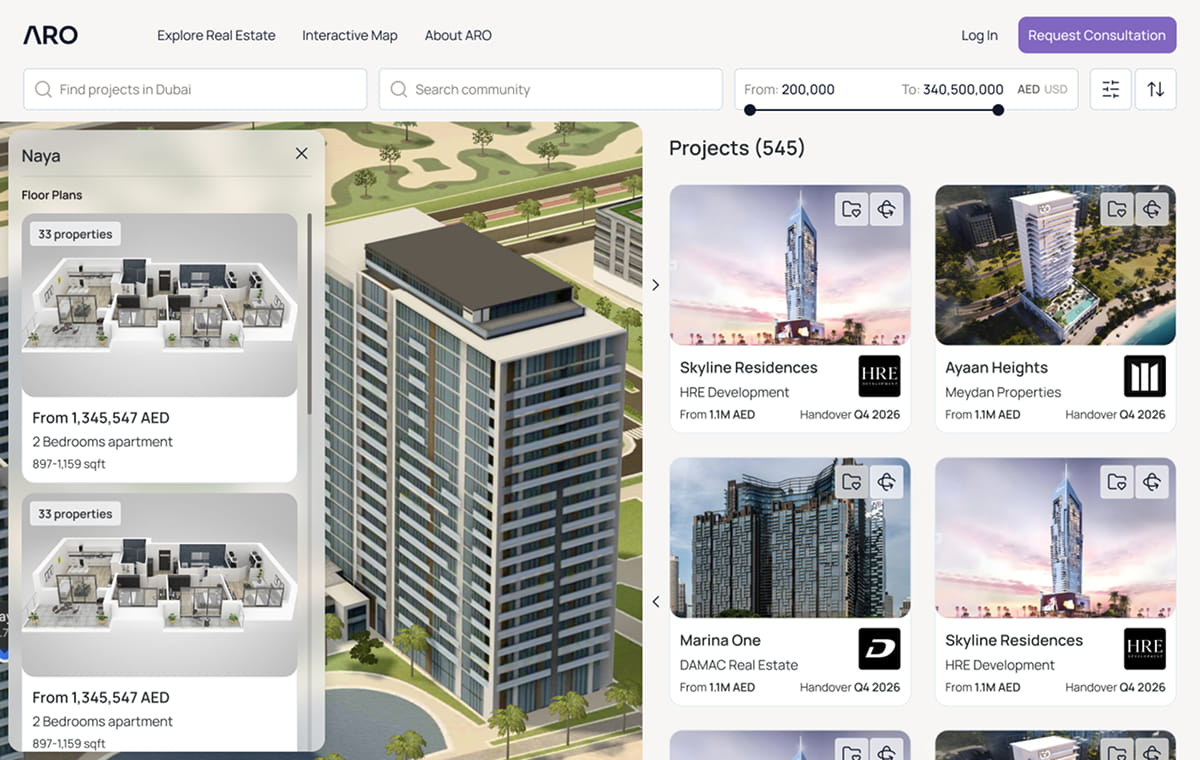
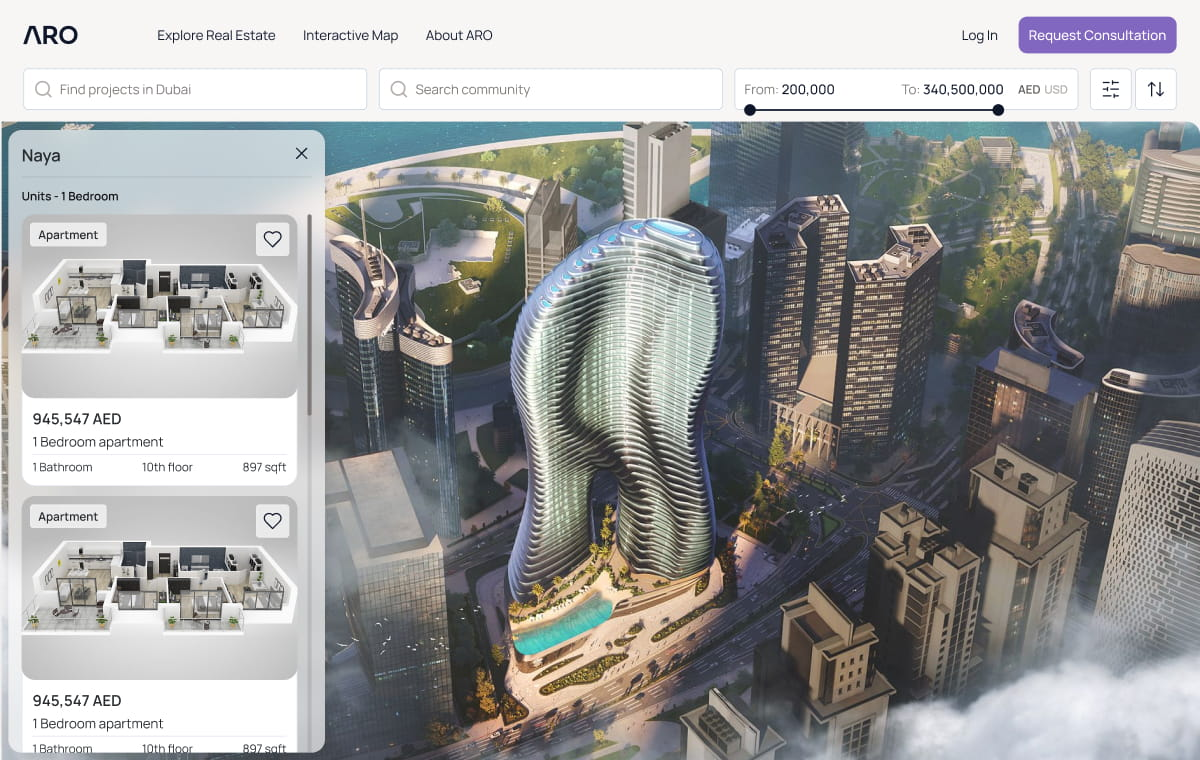
qwe

diff --git a/src/data/portfolio.js b/src/data/portfolio.js
@@ -47,8 +47,14 @@ export const projects = [
             { image: '/media/axcapitallisting.jpg' },
           ]
         },
-        { type: 'fullwidth', ratio: '21/9', label: 'Mobile experience' },
-        { type: 'grid-3', ratio: '1/1', label: 'UI components & design tokens' },
+        { type: 'fullwidth', ratio: '21/9', label: 'Mobile experience', image: '/media/axcapitalmobilescreens.jpg' },
+        {
+          type: 'grid-3', ratio: '1/1', label: 'UI components & design tokens', items: [
+            { image: '/media/axcolors.jpg' },
+            { image: '/media/axtypo.jpg' },
+            { image: '/media/axspacing.jpg' },
+          ]
+        },
         { type: 'quote', text: "The new design turned our website into our best-performing sales channel.", author: 'AX Capital Marketing Team' },
         { type: 'grid-masonry', label: 'Visual identity applied across product' },
       ],
@@ -96,7 +102,7 @@ export const projects = [
       ],
       sections: [
         // image/video здесь — отдельный слот для секции в гриде (независимо от heroMedia)
-        { type: 'hero', ratio: '16/9', label: '3D map interface' },
+        { type: 'hero', ratio: '16/9', label: '3D map interface', image: '/media/aro3d.jpg' },
         { type: 'fullwidth', ratio: '21/9', label: 'Platform overview', image: '/media/aromobilescreens.jpg' },
         {
           type: 'grid-2', ratio: '16/10', label: 'B2C search flow & B2B dashboard', items: [
